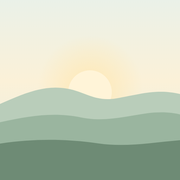
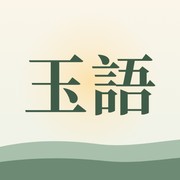
桌面圖示改為「玉語」淡米底版（晨光＋兩層山）
Claude-Session: https://claude.ai/code/session_01H2Mwi4XXY8JHze7fFQYyjG

diff --git a/shengxun/56/index.html b/shengxun/56/index.html
@@ -17,8 +17,8 @@
 <meta property="og:image:height" content="630">
 <meta property="og:url" content="https://sammy5688.github.io/AI-/shengxun/56/">
 <meta name="twitter:card" content="summary_large_image">
-<link rel="icon" type="image/png" href="icon-192.png">
-<link rel="apple-touch-icon" href="icon-180.png">
+<link rel="icon" type="image/png" href="icon-192.png?v=2">
+<link rel="apple-touch-icon" href="icon-180.png?v=2">
 <link rel="manifest" href="manifest.webmanifest">
 <meta name="apple-mobile-web-app-title" content="玉語心晨">
 <meta name="color-scheme" content="light dark">
